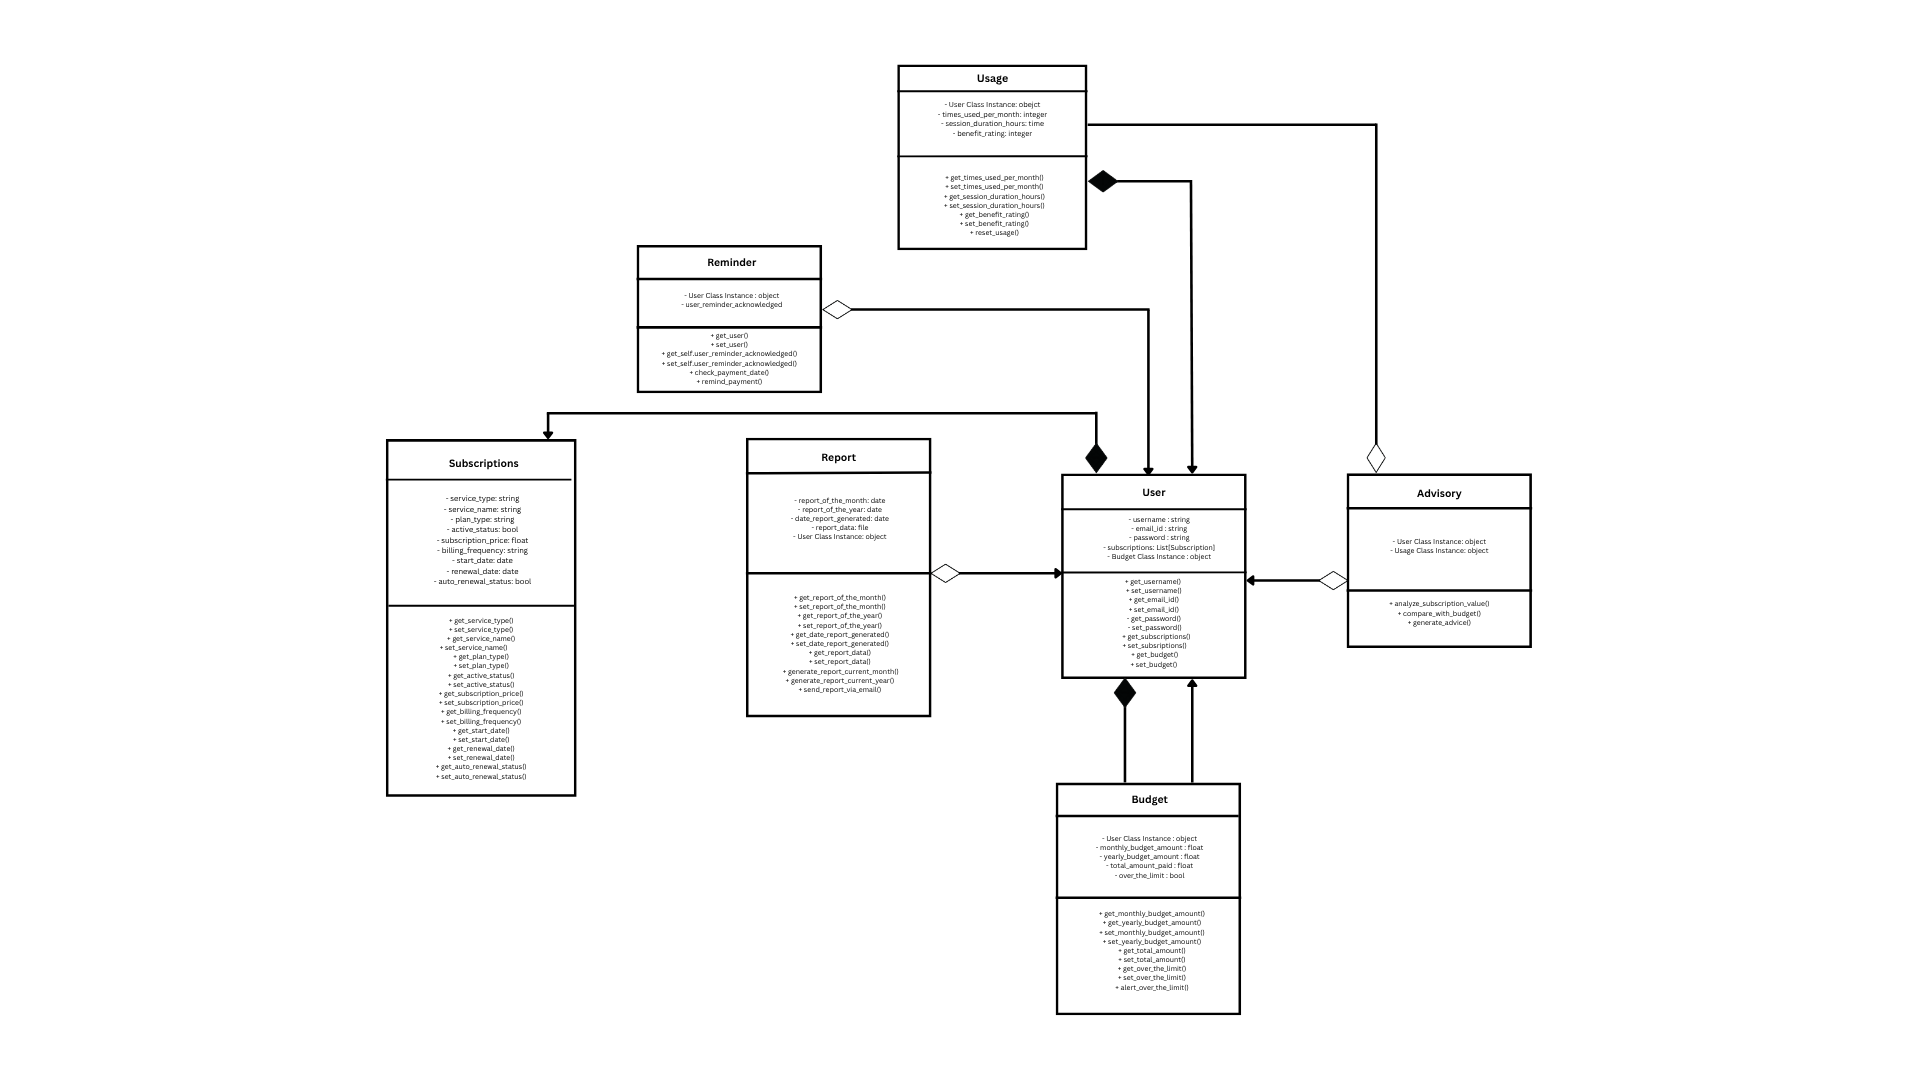
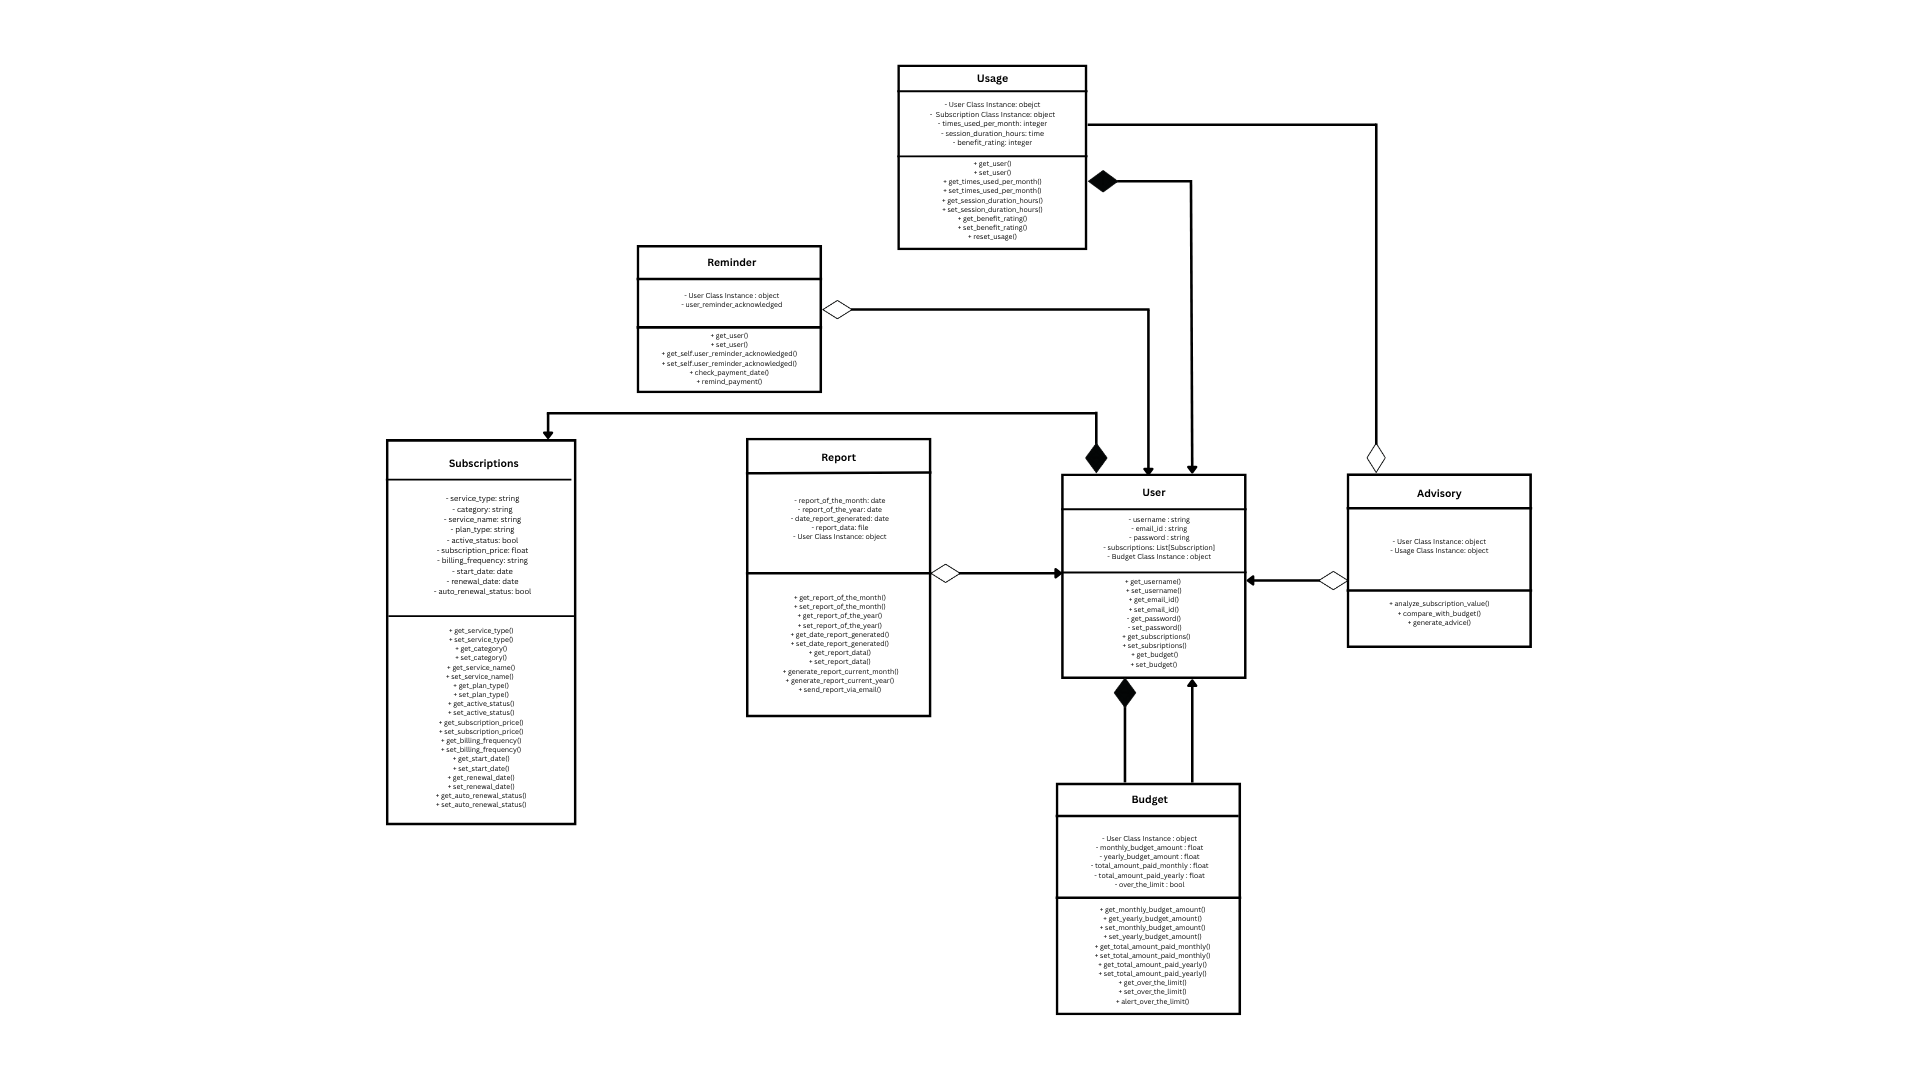
Verified the class's attributes and methods. Added changes in the UML diagram. Moving to database code now

Changed region(s): [[0.1875, 0.4583, 0.3125, 0.7639], [0.5625, 0.7944, 0.625, 0.9472], [0.4688, 0.0917, 0.5625, 0.2444]]

diff --git a/models/test.py b/models/test.py
@@ -462,8 +462,8 @@ class TestReport(unittest.TestCase):
     def setUp(self):
         self.user = User("advisoryuser", "advisory@example.com", "StrongPass123")
         self.valid_kwargs = {
-            "report_of_the_month": date(2024, 6, 1),
-            "report_of_the_year": date(2024, 1, 1),
+            "report_of_the_month": "AnyValue",  # Will be ignored by setter
+            "report_of_the_year": 9999,          # Will be ignored by setter
             "date_report_generated": date(2024, 6, 15),
             "report_data": b"test data",
             "user": self.user
@@ -471,27 +471,30 @@ class TestReport(unittest.TestCase):
 
     def test_report_initialization_valid(self):
         report = Report(**self.valid_kwargs)
-        self.assertEqual(report.report_of_the_month, date(2024, 6, 1))
-        self.assertEqual(report.report_of_the_year, date(2024, 1, 1))
+        self.assertEqual(report.report_of_the_month, date.today().strftime("%B"))
+        self.assertEqual(report.report_of_the_year, date.today().year)
         self.assertEqual(report.date_report_generated, date(2024, 6, 15))
         self.assertEqual(report.report_data, b"test data")
         self.assertEqual(report.user, self.user)
 
-    def test_report_invalid_report_of_the_month(self):
-        kwargs = self.valid_kwargs.copy()
-        kwargs["report_of_the_month"] = "2024-06-01"
-        with self.assertRaises(ValueError):
-            Report(**kwargs)
+    def test_report_of_the_month_always_current(self):
+        report = Report(**self.valid_kwargs)
+        # Try to set to a different month, should always be current month
+        report.report_of_the_month = "January"
+        self.assertEqual(report.report_of_the_month, date.today().strftime("%B"))
 
-    def test_report_invalid_report_of_the_year(self):
-        kwargs = self.valid_kwargs.copy()
-        kwargs["report_of_the_year"] = 2024
-        with self.assertRaises(ValueError):
-            Report(**kwargs)
+    def test_report_of_the_year_always_current(self):
+        report = Report(**self.valid_kwargs)
+        # Try to set to a different year, should always be current year
+        report.report_of_the_year = 2000
+        self.assertEqual(report.report_of_the_year, date.today().year)
 
     def test_report_invalid_date_report_generated(self):
         kwargs = self.valid_kwargs.copy()
         kwargs["date_report_generated"] = None
+        with self.assertRaises(ValueError):
+            Report(**kwargs)
+        kwargs["date_report_generated"] = "2024-06-15"
         with self.assertRaises(ValueError):
             Report(**kwargs)
 
@@ -511,23 +514,19 @@ class TestReport(unittest.TestCase):
     def test_report_setters_and_getters(self):
         report = Report(**self.valid_kwargs)
         new_user = self.user
-        report.report_of_the_month = date(2024, 7, 1)
-        report.report_of_the_year = date(2025, 1, 1)
+        report.report_of_the_month = "July"  # Should always be current month
+        report.report_of_the_year = 2025      # Should always be current year
         report.date_report_generated = date(2024, 7, 15)
         report.report_data = b"new data"
         report.user = new_user
-        self.assertEqual(report.report_of_the_month, date(2024, 7, 1))
-        self.assertEqual(report.report_of_the_year, date(2025, 1, 1))
+        self.assertEqual(report.report_of_the_month, date.today().strftime("%B"))
+        self.assertEqual(report.report_of_the_year, date.today().year)
         self.assertEqual(report.date_report_generated, date(2024, 7, 15))
         self.assertEqual(report.report_data, b"new data")
         self.assertEqual(report.user, new_user)
 
     def test_report_setter_invalid_types(self):
         report = Report(**self.valid_kwargs)
-        with self.assertRaises(ValueError):
-            report.report_of_the_month = "2024-07-01"
-        with self.assertRaises(ValueError):
-            report.report_of_the_year = 2025
         with self.assertRaises(ValueError):
             report.date_report_generated = None
         with self.assertRaises(ValueError):

diff --git a/models/report.py b/models/report.py
@@ -25,19 +25,17 @@ class Report:
 
     @report_of_the_month.setter
     def report_of_the_month(self, value):
-        if not isinstance(value, date):
-            raise ValueError("report_of_the_month must be a date object")
-        self._report_of_the_month = value
+        current_month = date.today().strftime("%B")
+        self._report_of_the_month = current_month
 
     @property
     def report_of_the_year(self):
         return self._report_of_the_year
 
     @report_of_the_year.setter
-    def report_of_the_year(self, value):
-        if not isinstance(value, date):
-            raise ValueError("report_of_the_year must be a date object")
-        self._report_of_the_year = value
+    def report_of_the_year(self, dummy_value):
+        current_year = date.today().year
+        self._report_of_the_year = current_year
 
     @property
     def date_report_generated(self):

diff --git a/models/usage.py b/models/usage.py
@@ -67,3 +67,11 @@ class Usage:
             self._benefit_rating = int(benefit_rating)
         except ValueError:
             raise ValueError("Benefit rating should be a number")
+
+    def reset_usage(self):
+        """
+        Resets the usage details to default values.
+        """
+        self.times_used_per_month = 0
+        self.session_duration_hours = 0.0
+        self.benefit_rating = 0

diff --git a/models/advisory.py b/models/advisory.py
@@ -29,8 +29,7 @@ class Advisory:
             raise ValueError("Invalid usage object")
         
     def analyze_subscription_value(self):
-        subscriptions = self._user.subscription_list
-        budget = self._user.budget
+        pass
         
     def compare_with_budget(self):
         pass
